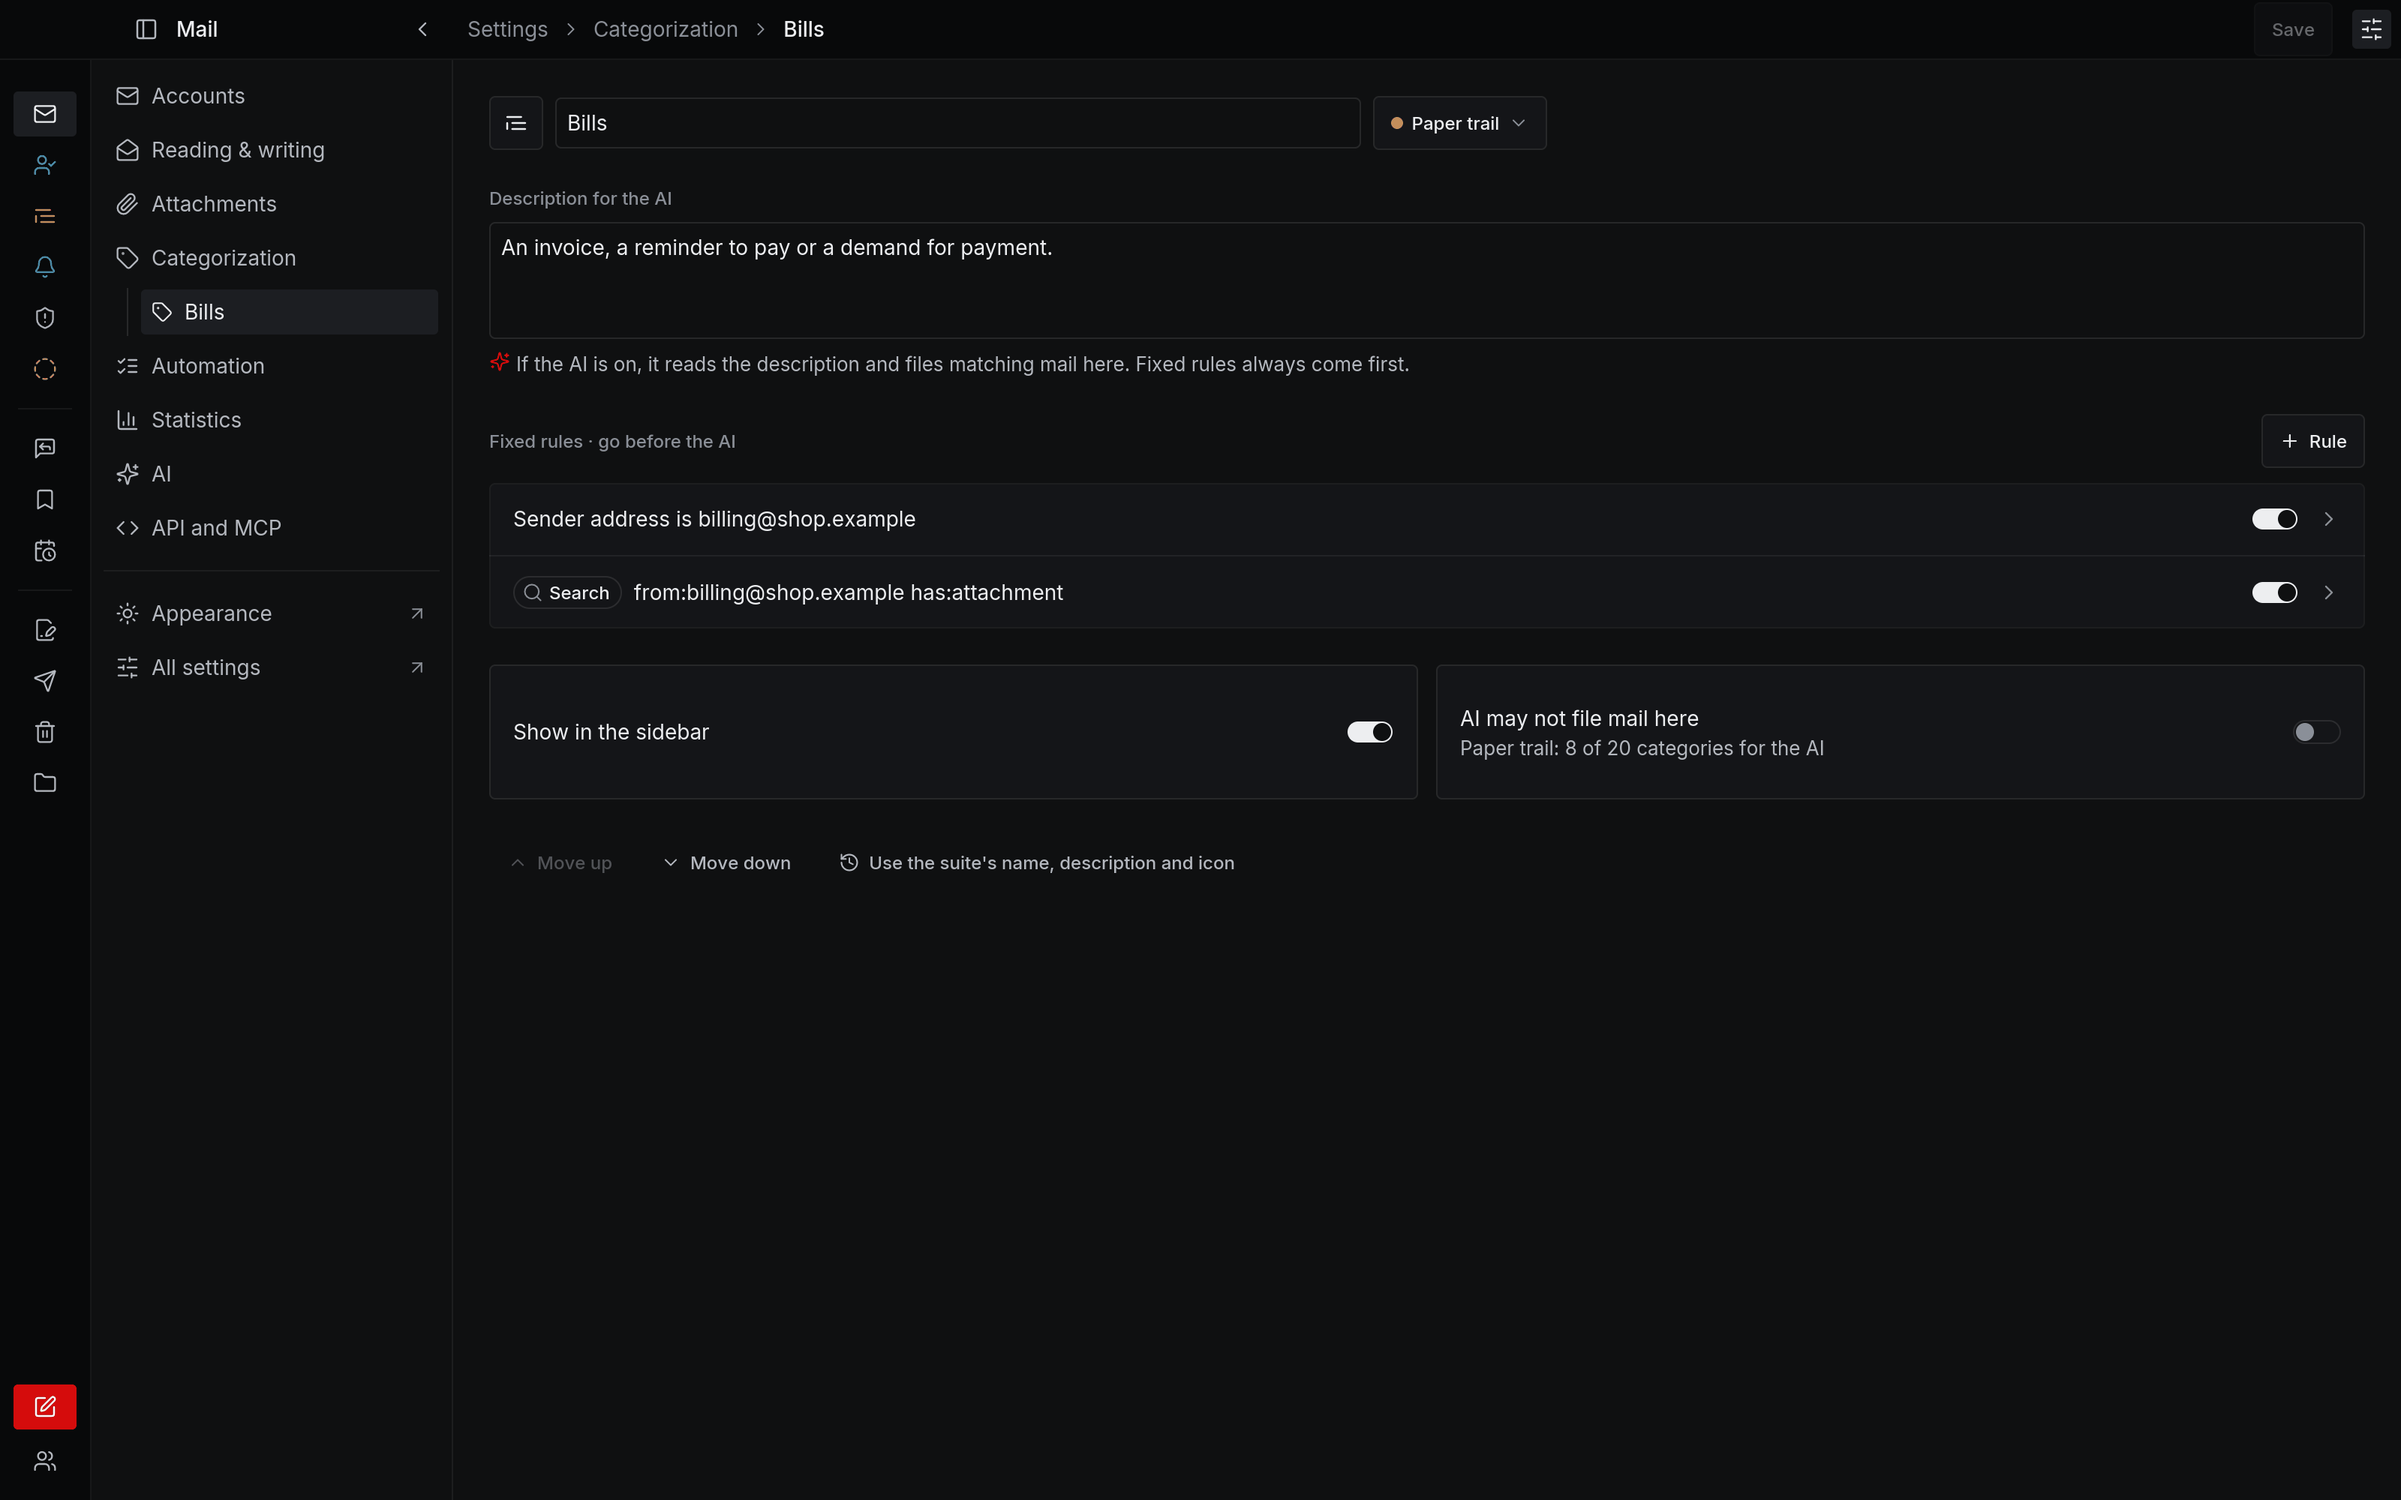
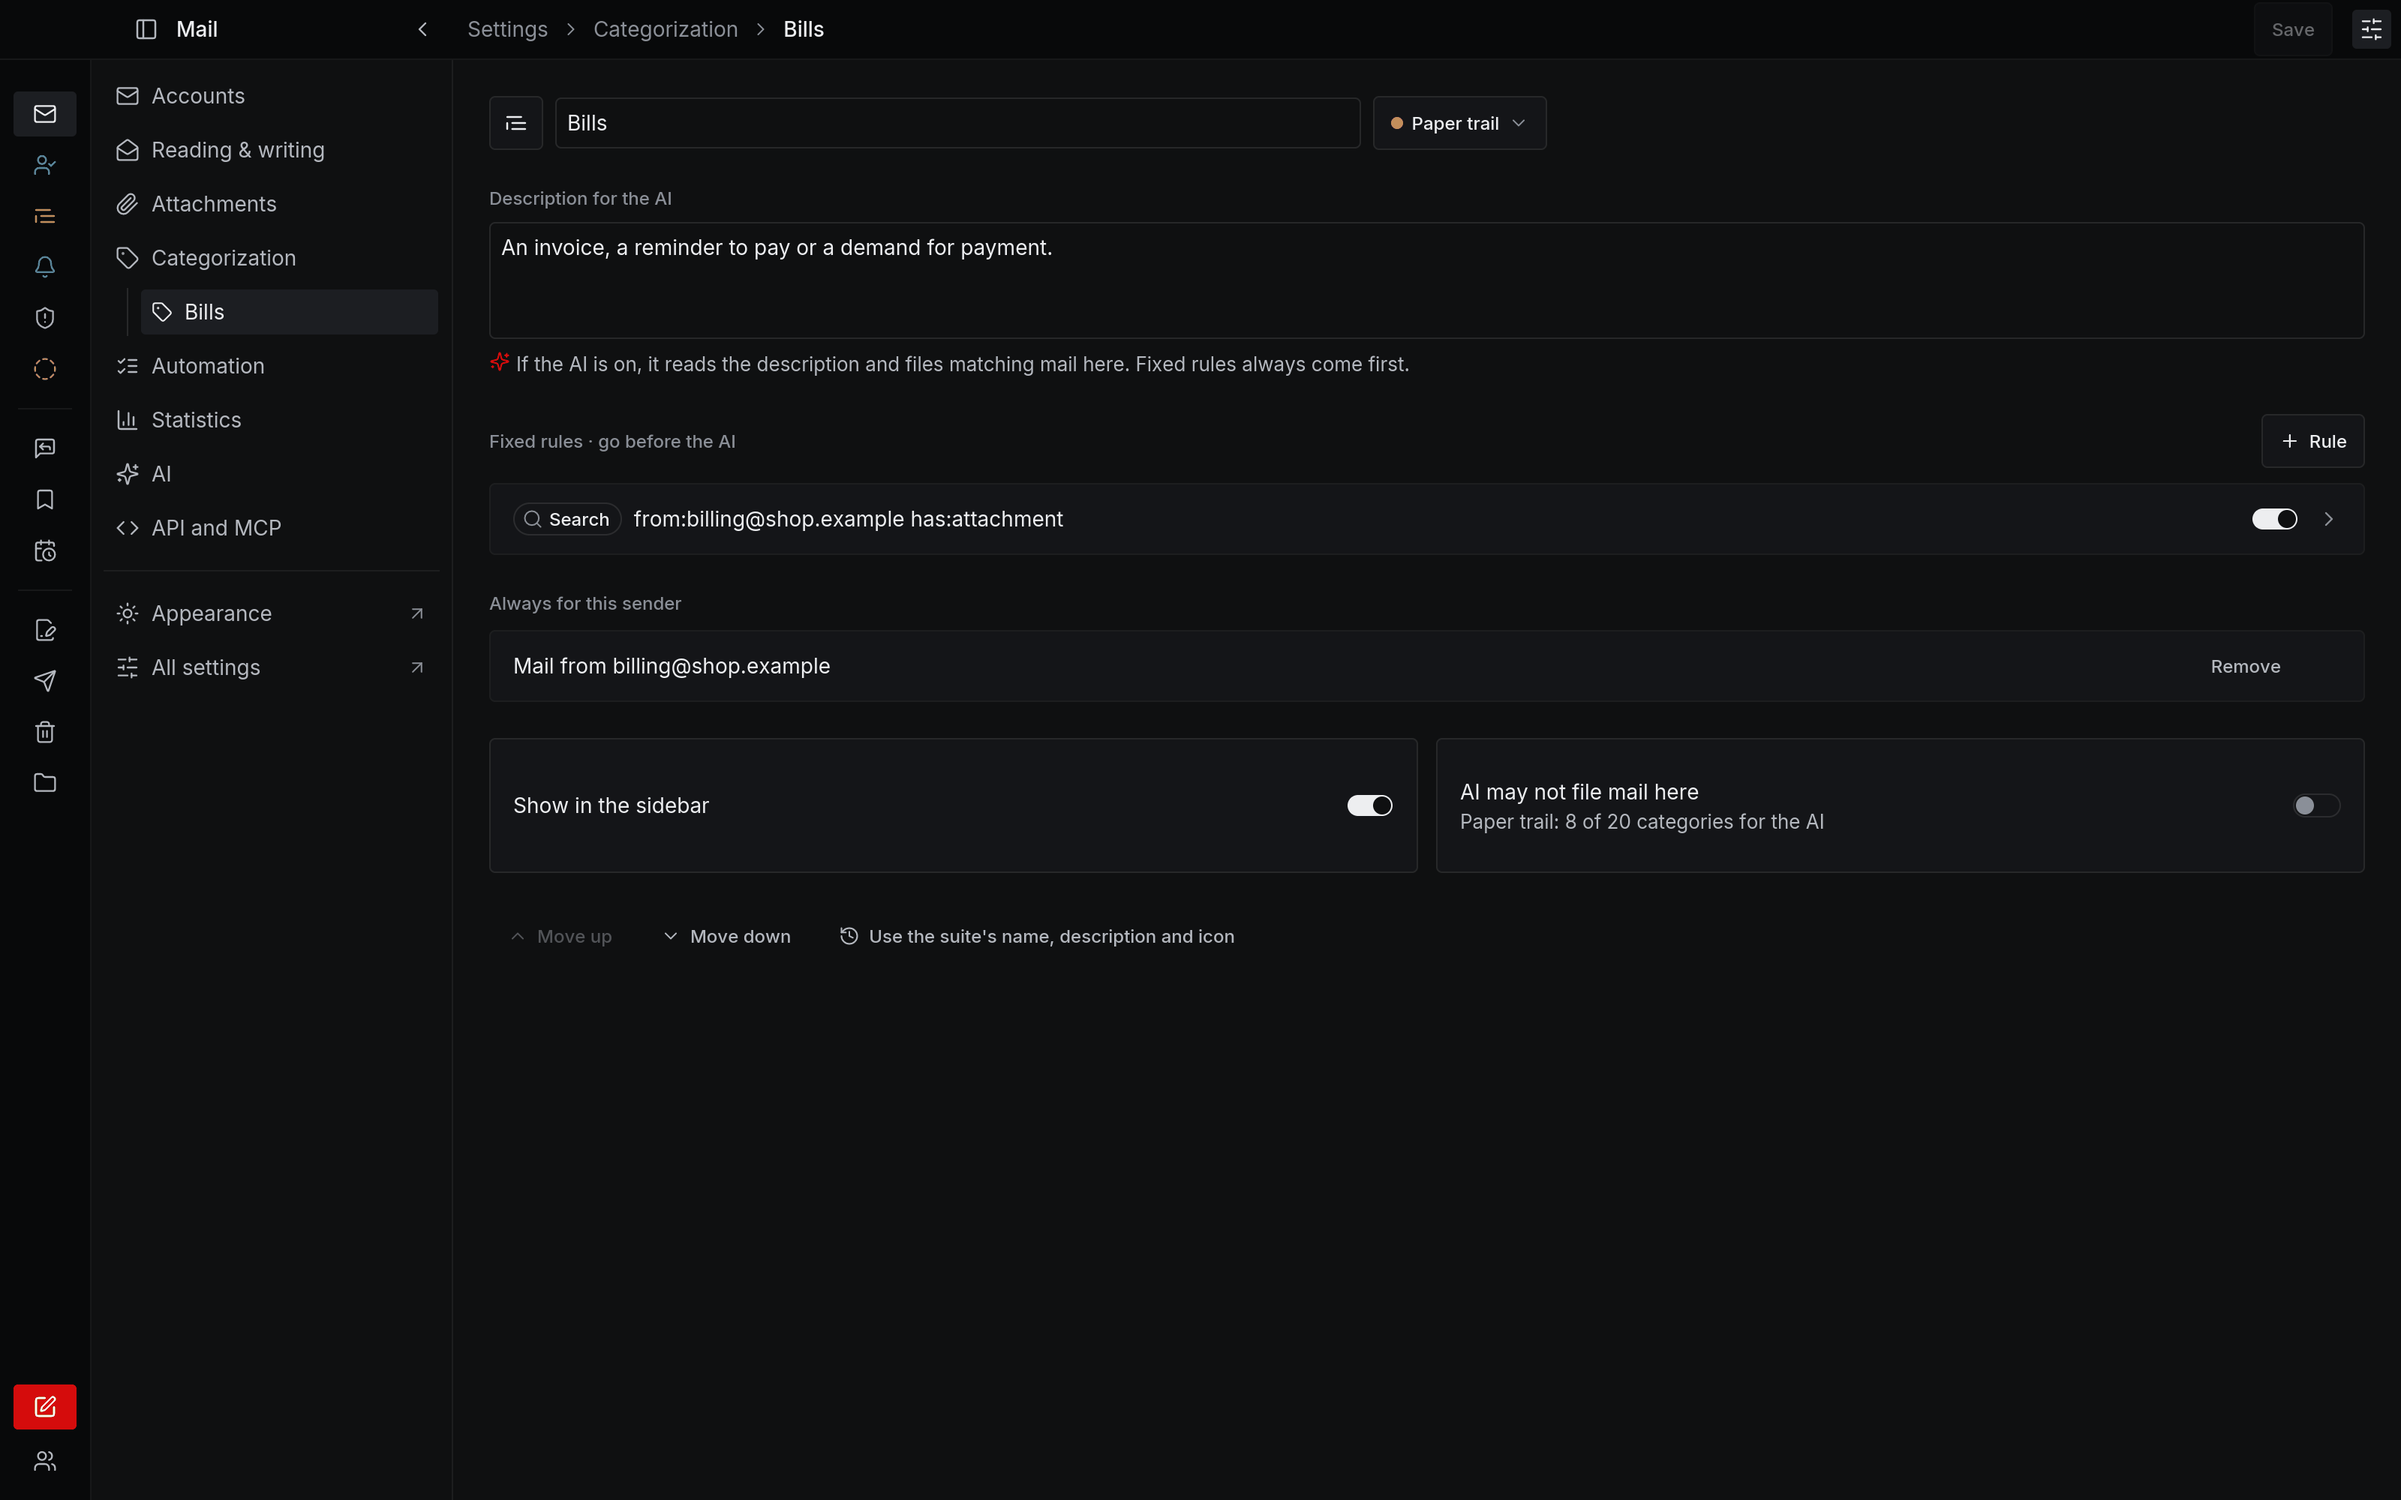
docs(ux): recapture mail categorization after merging main #968

diff --git a/docs/ux/settings-audit/README.md b/docs/ux/settings-audit/README.md
@@ -3,6 +3,12 @@
 Visuelles Audit **aller Einstellungsseiten** der Steuerzentrale und der Apps, mit Bildern aus der laufenden Demo, Befunden, Regelvorschlag, Mockups und priorisierten
 Empfehlungen. Stand: 2026-11-23, `main` bei `7789963d`. **Es wurde kein Produktcode geändert**; alles hier ist Dokumentation und Bildmaterial.
 
+Nachgezogen am 2026-11-25 auf `main` bei `3b01d52b`: Seit dem Audit kam unter Mail › Categorization der Abschnitt
+„Always for this sender“ hinzu (#577). Die Zustände `categorization-category` und `categorization-phishing` sind neu
+aufgenommen; alle anderen Mail- und Hub-Bilder sind gleich geblieben (Abweichungen nur bei Datum, Uhrzeit und
+Lade-Symbol). Die Übersichtsbögen in `sheets/` zeigen noch den Stand vom 23.11. Steuerzentrale, Kalender, Aufgaben und
+Assistent wurden nicht neu aufgenommen, weil die Änderungen an `torro-settings-ui` nur Mail und Hub betreffen.
+
 ## Lesereihenfolge
 
 | Datei | Inhalt |
